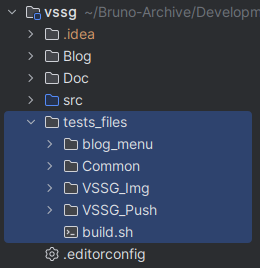
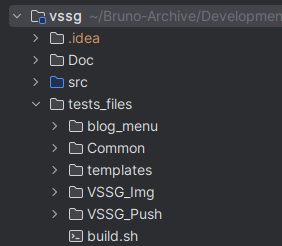
Doc Update.

diff --git a/Doc/Playground.md b/Doc/Playground.md
@@ -8,10 +8,11 @@ directory.
 
 This directory contains all needed files to generate a toy project blog, and start using vssg's commands.
 
-In order to build it, you have 5 thing to do:
+In order to build it, you have few thing to do:
 
 - export VSSG_PUSH_DIR= **xxx**/vssg/tests_files/VSSG_push/
-- export VSSG_PUSH_DIR= **xxx**/vssg/tests_files/VSSG_Img/
+- export VSSG_IMG_PUSH_DIR= **xxx**/vssg/tests_files/VSSG_Img/
+- export VSSG_TEMPLATE_DIR= **xxx**/vssg/tests_files/templates/
 - export VSSG_BLOG_ROOT= **xxx**/vssg/Blog
 
 where **xxx** is the absolute path from / to the location you have installed vssg.
@@ -47,7 +48,7 @@ Then, you should end with a new directory called Blog, with 3 topics and several
 
 #### *Text and Images source: [Wikipedia](https://en.wikipedia.org/wiki/Main_Page)
 
-Enter the Blog directory by doing cd Blog, and then running 'vssg show' you should get:
+Enter the Blog directory by doing cd Blog, and then running 'vssg show -a' you should get:
 
 ![image](pictures/vssg_show.png)
 
